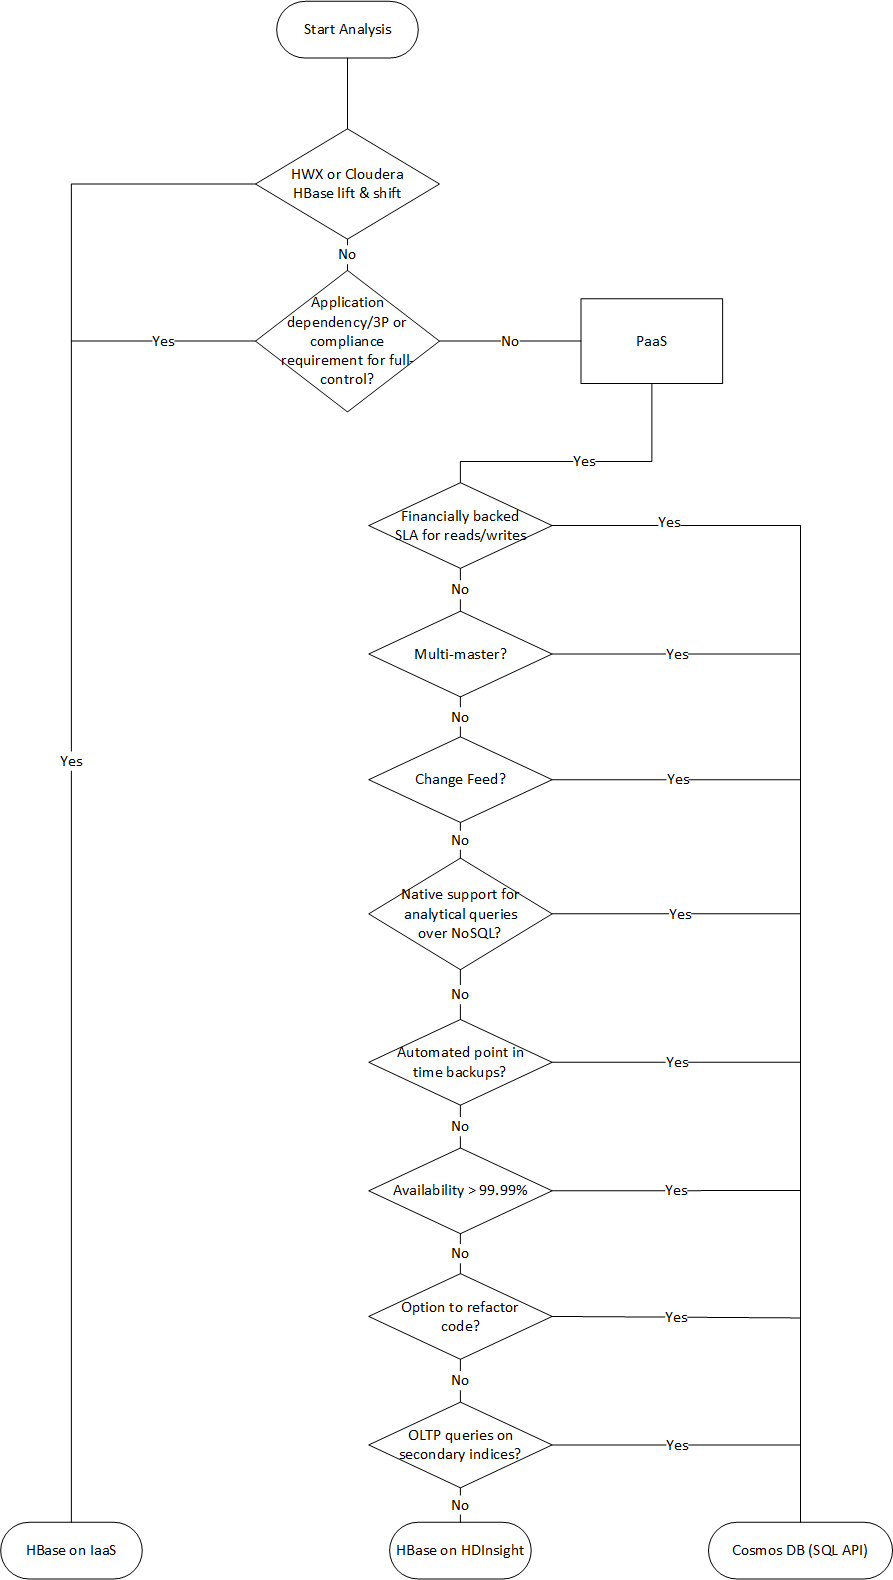
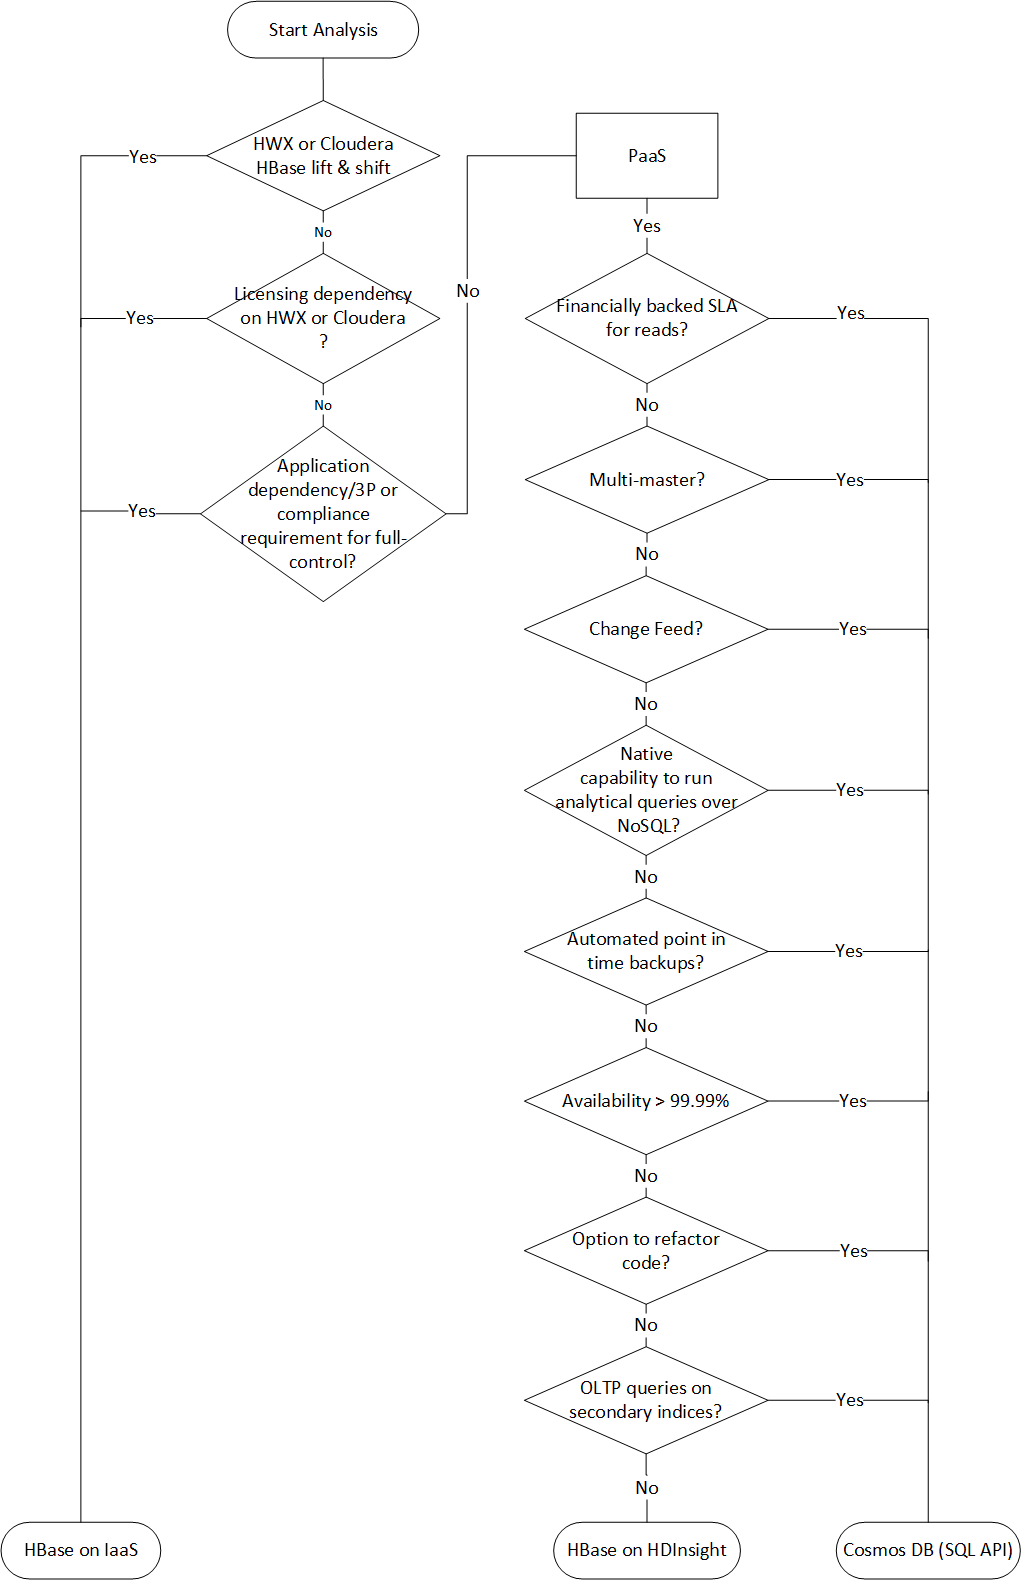
updated flowcharts

diff --git a/docs/hbase/migration-approach.md b/docs/hbase/migration-approach.md
@@ -124,7 +124,7 @@ Inputs from assessment and performance baseline should give customers a fairly a
 **Source is an HBase instance** but different versions i.e. HBase version at source is different from HBase version deployed on Azure VM. | Since source is also a HBase datastore, one can explore direct HBase cluster to cluster data migration options such as <br />  <br /> **HBase CopyTable** <br /> *Note* - CopyTable supports full and delta table copy features. <br /> OR <br /> **Azure HDI Spark or Databricks** <br /> OR <br /> **HBase Export and Import Utility** <br /> OR <br /> **HashTable/SyncTable** | Same as above plus a few related to specific tool used for migration. <br />  <br />  **HBase CopyTable** HBase version on source and target sides. <br />  <br /> Clusters must be online on source and target side. <br />  <br /> Additional resources required on source side to support additional read traffic on the source HBase instance. <br />  <br /> **CopyTable** feature by default, it only copies the latest version of a row cell. It also copies all Cells between a specified time range. There might be changes happening on source HBase while CopyTable is running, in such a scenario, new changes will either be completed included or excluded. <br />  <br /> **Azure HDI Spark or Databricks** require additional resources or a separate cluster for migrating data however it's a tried and tested approach. <br />  <br /> **HBase Export Utility** by default, always copies the latest version of a Cell across to HBbase target. <br />  <br /> **HashTable/SyncTable** is more efficient compared to CopyTable feature.
 Source is a HBase database with the same version i.e., data is being migrated between two instances of HBase. | All the options stated above <br /> and <br /> **HBase Snapshots** | Same considerations as stated above and certain that are related to **HBase Snapshots**. <br />  <br /> Snapshot doesn’t create copy of data however it does create a reference back to HFiles. The referenced HFiles are archived separately in case compaction is triggered on parent table which is referenced in a snapshot.<br />  <br /> Footprint on source and target HBase when a snapshot restore is triggered.<br /> <br /> Keeping data source and target (HBase) in-sync during migration and then planning for final cut-over.  <br /> <br /> Network latency between source and target.  
 
-![Tooling options for migrating HBase to Azure](../images/clip_image147)  
+![Tooling options for migrating HBase to Azure](../images/flowchart-hbase-azure-migration-tool.png)
 
 Further reading  
 [Use Bulk Load utility to read data from csv,tsv etc. and write to HFile directly.](http://hbase.apache.org/book.html#arch.bulk.load)  
